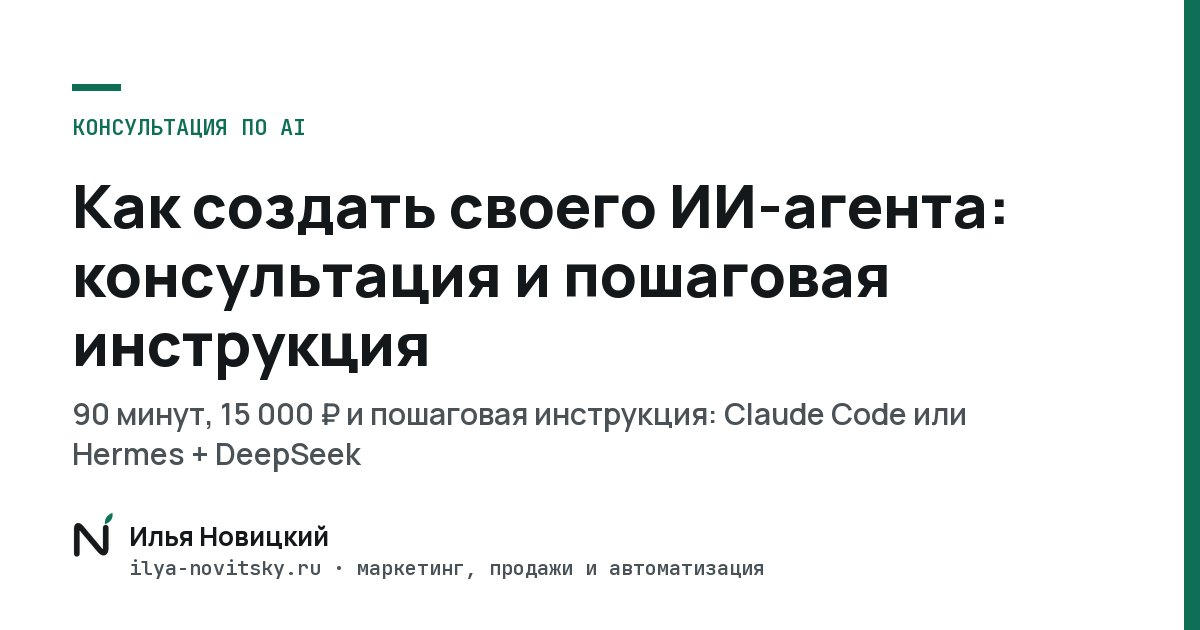
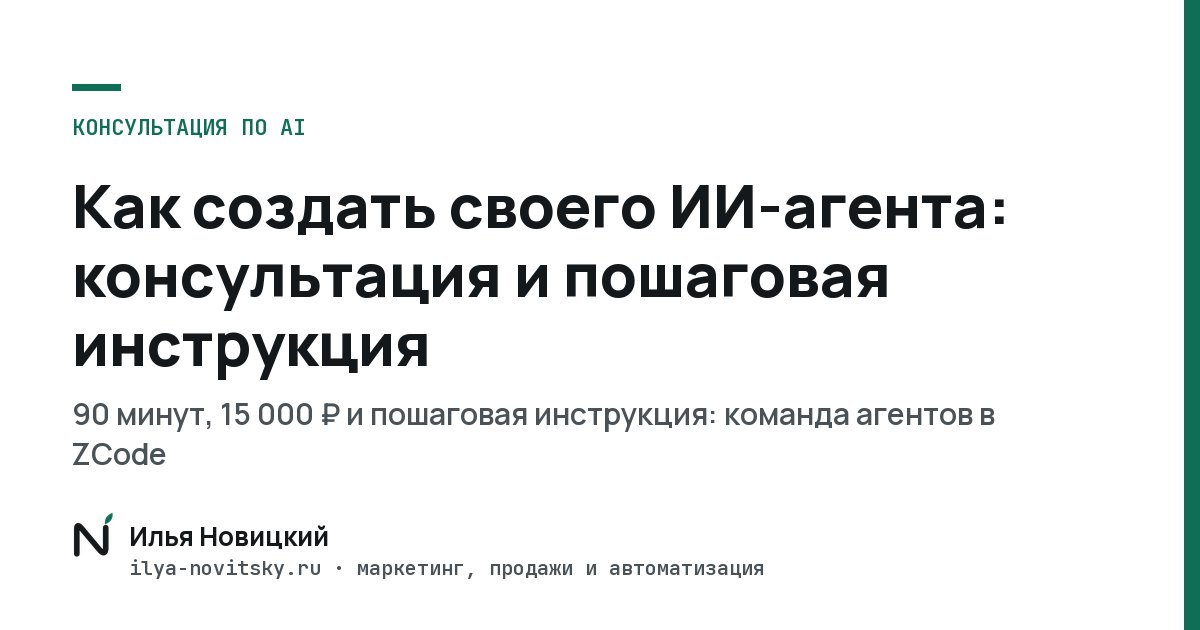
Своя AI-среда: связка → ZCode + модели внутри, скиллы и Telegram (страница, услуга, блог, оферта, og)

Changed region(s): [[0.5858, 0.6333, 0.8325, 0.6937], [0.0617, 0.6937, 0.3083, 0.754]]

diff --git a/content/pages/sreda.ts b/content/pages/sreda.ts
@@ -1,5 +1,6 @@
-// Тексты страницы /svoya-ai-sreda v2 (решение Ильи 23.10): подача как у ИИ-офисов, но продукт — консультация 90 минут и PDF,
-// без обучения и сопровождения. Связки: Claude Code или Hermes + DeepSeek. Все 25 ролей и их промпты не отдаём.
+// Тексты страницы /svoya-ai-sreda v3 (решение Ильи 06.11): подача как у ИИ-офисов, но продукт — консультация 90 минут и PDF,
+// без обучения и сопровождения. Среда одна: ZCode, модели и провайдеры внутри него, на сайте обобщённо, конкретика в PDF.
+// Фишки: навыки-скиллы и управление командой из Telegram. Все 25 ролей и их промпты не отдаём.
 // Скелет: «02 Сайт/Сайт — база знаний/Своя ИИ-среда — скелет продукта, страницы и PDF — 23.10.md».
 // Границы: не помогаем обходить ограничения сервисов (оферта 3.3), только Mac. Разметка: **жирный**, [текст](адрес), {{без переноса}}.
 import { typo } from "@/lib/typo";
@@ -8,7 +9,7 @@ import { prices as P } from "@/config/prices";
 export const sreda = typo({
 	meta: {
 		title: "Как создать своего ИИ-агента: консультация и пошаговая инструкция",
-		description: `Как создать команду ИИ-агентов для своих задач: готовые промпты и пошаговая инструкция, Claude Code или Hermes + DeepSeek. ${P.consult.term}, ${P.consult.price}.`,
+		description: `Как создать команду ИИ-агентов для своих задач: готовые промпты и пошаговая инструкция, среда ZCode с моделями на выбор. ${P.consult.term}, ${P.consult.price}.`,
 	},
 	hero: {
 		crumb: "Своя ИИ-среда",
@@ -37,7 +38,7 @@ export const sreda = typo({
 		},
 		pdf: {
 			label: "PDF после встречи",
-			alt: ["Обложка инструкции: как создать команду ИИ-агентов", "Страница установки Hermes + DeepSeek", "Полный промпт субагента"],
+			alt: ["Обложка инструкции: как создать команду ИИ-агентов", "Страница установки ZCode и подключения модели", "Полный промпт субагента"],
 		},
 
 	},
@@ -69,14 +70,14 @@ export const sreda = typo({
 	},
 	stacks: {
 		num: "02",
-		label: "Связка",
-		h2: "Устройство одно, инструмент выбираете вы",
-		lead: "В обеих вы пишете одному главному агенту, а он сам раздаёт работу субагентам. Разница в том, как их поставить.",
+		label: "Среда",
+		h2: "Среда одна, модель можно менять",
+		lead: "Вся команда живёт в одной программе: ZCode. Модели подключаются внутри неё, поэтому вы не привязаны к одному сервису.",
 		items: [
-			{ b: "Claude Code", how: "Вы видите, какой агент что делает.", plus: "Сильнее всего в текстах, файлах и сайтах.", setup: "Ставится быстрее.", fit: "Подойдёт, если сервис вам доступен и вы готовы к подписке." },
-			{ b: "Hermes + DeepSeek", how: "Вы общаетесь с одним агентом, команду он запускает сам.", plus: "Не зависит от блокировок, модель можно поменять в любой момент.", setup: "Ставится дольше, но все шаги есть в PDF.", fit: "Подойдёт, если вы в России и не хотите зависеть от блокировок. Самый спокойный вариант.", calm: true },
+			{ b: "ZCode", how: "Вы пишете одному главному агенту, он раздаёт работу субагентам, а вы видите, кто что делает.", plus: "Файлы, память и навыки агентов лежат у вас на компьютере.", setup: "Ставится по шагам из PDF, без лишней техники.", fit: "Одна среда вместо связки из нескольких сервисов." },
+			{ b: "Модели внутри ZCode", how: "Провайдера и модель подключаем под ваши задачи и бюджет.", plus: "Недоступна одна модель, переключаетесь на другую: среда, файлы и память остаются.", setup: "Сетка моделей с ценами и отличиями есть в PDF.", fit: "Самый спокойный вариант: вы не зависите от одного сервиса.", calm: true },
 		],
-		note: "В обоих случаях файлы и память лежат у вас на компьютере. Какая связка подойдёт вам, решим на консультации.",
+		note: "Конкретные модели и цены не прячем за словами: разберём на консультации и подберём под ваши задачи.",
 	},
 	gets: {
 		num: "03",
@@ -86,7 +87,7 @@ export const sreda = typo({
 		callLabel: "Консультация · 90 минут",
 		call: [
 			{ m: "15 мин", t: "ваша работа: что хотите отдать агентам" },
-			{ m: "15 мин", t: "связка: Claude Code или Hermes + DeepSeek" },
+			{ m: "15 мин", t: "среда ZCode: как устроена, какие модели подключить под вас" },
 			{ m: "30 мин", t: "готовая команда: как устроены главный агент и четыре субагента" },
 			{ m: "20 мин", t: "первая цепочка задач на вашем примере" },
 			{ m: "10 мин", t: "как собирать своих агентов дальше, вопросы" },
@@ -94,18 +95,21 @@ export const sreda = typo({
 		pdfLabel: "PDF · в тот же день",
 		pdf: [
 			"готовая команда: главный агент и четыре субагента, кто за что отвечает",
-			"подготовка: что поставить, по шагам и без лишней техники",
+			"подготовка: установка ZCode по шагам, без лишней техники",
+			"сетка моделей и провайдеров: цены, отличия, что выбрать под ваши задачи",
 			"безопасность в первый день: данные, ключи и доступы под защитой",
 			"память: файл о вас, чтобы агенты писали вашим голосом",
 			"главный агент: готовый промпт, копируете и запускаете",
 			"субагенты: готовые промпты всех четырёх",
+			"навыки-скиллы: агенты работают по готовым методикам, плюс как собрать свой",
+			"Telegram: как командовать отделами агентов из мессенджера",
 			"первая цепочка: от плана до готового результата",
-			"план Б: что делать, если сервис недоступен",
+			"если модель недоступна: переключение на другую без потери работы",
 			"свои агенты: как по тому же алгоритму собрать агента под любую задачу",
 		],
 		pdfNote: "Плюс примеры того, что команда возьмёт первым.",
 		needLabel: "Что нужно от вас",
-		need: ["компьютер на Mac", "подписка или ключ к выбранной связке", "ваши материалы: тексты, посты, сайт", "полтора часа без отвлечений"],
+		need: ["компьютер на Mac", "подписка или ключ к модели, если уже есть. Если нет, подберём на встрече", "ваши материалы: тексты, посты, сайт", "полтора часа без отвлечений"],
 	},
 	tasks: {
 		num: "04",
@@ -125,8 +129,8 @@ export const sreda = typo({
 		h2: "Соберите сами или доверьте настройку мне",
 		lead: "Консультация даёт всё, чтобы собрать команду самому. Если не хочется разбираться, настрою за вас.",
 		items: [
-			{ b: "Консультация", price: P.consult.price, term: `${P.consult.term} и PDF`, t: "Показываю готовую команду и выбираем связку под вас. В тот же день PDF с шагами, промптами и алгоритмом для своих агентов.", button: "Записаться на консультацию", main: true },
-			{ b: "Настройка под ключ", price: `от ${P.setup.price}`, term: "по смете", t: "Соберу и настрою команду на выбранной связке, проверю её в деле. В Москве с выездом, по России онлайн. Сопровождение после сдачи обсуждаем отдельно.", button: "Обсудить настройку" },
+			{ b: "Консультация", price: P.consult.price, term: `${P.consult.term} и PDF`, t: "Показываю готовую команду в ZCode и подбираем модель под ваши задачи. В тот же день PDF с шагами, промптами и алгоритмом для своих агентов.", button: "Записаться на консультацию", main: true },
+			{ b: "Настройка под ключ", price: `от ${P.setup.price}`, term: "по смете", t: "Соберу и настрою команду в ZCode, подключу модели и Telegram, проверю её в деле. В Москве с выездом, по России онлайн. Сопровождение после сдачи обсуждаем отдельно.", button: "Обсудить настройку" },
 		],
 		team: "Хотите, чтобы команда агентов работала в вашем бизнесе под моим управлением? [Это работа в команде →](/kak-my-rabotaem)",
 	},
@@ -142,7 +146,8 @@ export const sreda = typo({
 			{ q: "Я не технарь. Справлюсь?", a: "**Да, если готовы идти по шагам.** В инструкции только порядок действий, без лишней техники." },
 			{ q: "А если не получится собрать самому?", a: "**Инструкция ведёт по шагам, но собираете вы сами,** и где-то придётся вникнуть. Если не хочется разбираться, есть настройка под ключ." },
 			{ q: "Вы дадите все роли и промпты?", a: "**Нет.** Вы получаете готовую команду из главного агента и четырёх субагентов и алгоритм, по которому соберёте своих под любые задачи." },
-			{ q: "А если сервис заблокируют?", a: "**Для этого есть связка Hermes + DeepSeek.** Она не зависит от зарубежных сервисов, а файлы и память всё равно лежат у вас." },
+			{ q: "А если модель или сервис станет недоступен?", a: "**Переключитесь на другую модель внутри ZCode.** Среда, файлы и память остаются у вас, поэтому работа не ломается. Как переключаться, расписано в PDF." },
+			{ q: "Можно ли управлять агентами из Telegram?", a: "**Да.** Подключаем Telegram: вы пишете главному агенту в мессенджере, а он раздаёт задачи отделам. Порядок подключения есть в PDF." },
 			{ q: "Мои данные будут в безопасности?", a: "**Да, если идти по инструкции.** Файлы и память лежат у вас, а как защитить данные, ключи и доступы с первого дня, расписано в отдельном разделе PDF." },
 			{ q: "Вы поможете обойти ограничения сервисов?", a: "**Нет.** Работаем с тем, что вам доступно. Условия в [оферте](/offer)." },
 			{ q: "Кому не подойдёт?", a: "**Если работаете на Windows,** только знакомитесь с нейросетями или нужно внедрить ИИ сразу на всю команду." },

diff --git a/content/pages/kak-my-rabotaem.ts b/content/pages/kak-my-rabotaem.ts
@@ -9,7 +9,7 @@ export const services = typo([
 	{
 		id: "sreda", title: "Консультация «Своя ИИ-среда»", line: "Готовая команда ИИ-агентов с промптами и инструкция, по которой вы соберёте её сами.", price: P.consult.price, term: P.consult.term,
 		forWho: "Для тех, кто хочет свою команду ИИ-агентов и работать с ней сам.",
-		inc: ["показываю готовую команду: главный агент и четыре субагента", "выбираем связку: Claude Code или Hermes + DeepSeek", "PDF в тот же день: шаги, промпты и как собирать своих агентов", "защита данных, ключей и доступов с первого дня", "план Б: что делать, если сервис недоступен"],
+		inc: ["показываю готовую команду: главный агент и четыре субагента", "ставим среду ZCode, модель подбираем под ваши задачи", "PDF в тот же день: шаги, промпты и как собирать своих агентов", "навыки-скиллы и управление командой из Telegram", "защита данных, ключей и доступов с первого дня"],
 		link: { href: "/svoya-ai-sreda", t: "Подробнее о консультации" },
 		note: "",
 	},

diff --git a/src/lib/blog-viz.ts b/src/lib/blog-viz.ts
@@ -22,7 +22,7 @@ const agent = () => {
 		["e", "что знает", "Клиенты, прайс, частые вопросы и примеры удачных ответов"],
 		["r", "инструкция", "Нейросеть сначала задаёт вам вопросы и собирает скелет"],
 		["r", "проверка", "Кто принимает результат, пока агент учится на своих ошибках"],
-		["o", "где работает", "Claude Code или Hermes и DeepSeek, файлы и память у вас"],
+		["o", "где работает", "ZCode на вашем компьютере: файлы и память у вас, модель можно менять"],
 	];
 	return `<figure class="bviz bviz-chain"><p class="bviz-l">Шесть шагов к своему ИИ-агенту</p><ol>${steps
 		.map(([k, b, t], i) => `<li class="k-${k}"><span class="bc-n">${i + 1}</span><div><span class="bc-k">${esc(b)}</span><p>${esc(t)}</p></div></li>`)

diff --git a/src/components/sreda/Stacks.tsx b/src/components/sreda/Stacks.tsx
@@ -1,7 +1,7 @@
 import { sreda } from "@content/pages/sreda";
 import SectionHead from "@/components/ui/SectionHead";
 
-// 02 · две связки: Claude Code или Hermes + DeepSeek (вторая снимает страх блокировок).
+// 02 · среда ZCode и модели внутри неё (вторая карточка снимает страх блокировок: смена модели не ломает работу).
 export default function Stacks() {
 	const c = sreda.stacks;
 	return (

diff --git a/content/legal/offer.md b/content/legal/offer.md
@@ -22,7 +22,7 @@
 
 2.5. **Консультация «Своя ИИ-среда»** (далее — Консультация) — разовая онлайн-встреча, на которой Исполнитель разбирает, как Заказчик работает с системами искусственного интеллекта, и даёт рекомендации, как организовать собственную рабочую среду: хранение файлов, роли, модели, безопасность и порядок первых шагов.
 
-2.6. **Настройка ИИ-среды под ключ** (далее — Настройка) — настройка Исполнителем рабочей среды с системами искусственного интеллекта на компьютере Заказчика под его задачи на выбранной связке (например, Claude Code или Hermes с DeepSeek): руководитель и дочерние агенты, проверка на задачах Заказчика.
+2.6. **Настройка ИИ-среды под ключ** (далее — Настройка) — настройка Исполнителем рабочей среды с системами искусственного интеллекта на компьютере Заказчика под его задачи в среде ZCode с подключением выбранных моделей искусственного интеллекта: руководитель и дочерние агенты, проверка на задачах Заказчика.
 
 2.7. **Разработка** — создание по заказу сайта, лендинга, веб-сервиса, чат-бота (в Telegram, MAX) или мини-приложения по смете или техническому заданию, согласованным до оплаты.
 
@@ -40,7 +40,7 @@
 - **Чертёж системы** — 2–3 недели. Результат — документ (и прототип, если речь о продукте). Объём согласуется до выставления счёта.
 - **Ведение** — по целям на месяц, которые Стороны согласуют в начале каждого месяца (на основе чертежа, если он был): сайт, контент, путь клиента до оплаты, продукт или сервис, автоматизация, аналитика. Объём роли и формат связи указываются в счёте или в Канале связи до оплаты; по умолчанию — один плановый созвон в неделю и переписка в рабочие дни. Каждую неделю Заказчик получает план и отчёт. Работы сверх объёма роли выполняются после согласования расширения роли и её стоимости.
 - **Разработка** — до оплаты Стороны согласуют в Канале связи смету или техническое задание: что создаётся, из каких этапов, сроки и цена каждого этапа. Изменения после согласования — по новой смете. Результат этапа — работающий продукт или его часть, исходный код и доступы; Исполнитель показывает результат Заказчику и передаёт его письменно. Ошибки, найденные Заказчиком в течение 3 рабочих дней после приёмки и не связанные с изменением задачи, Исполнитель исправляет без доплаты.
-- **Консультация «Своя ИИ-среда»** — одна онлайн-встреча продолжительностью до 90 минут в Telegram или Яндекс Телемосте в согласованное время. После встречи, в тот же день, Исполнитель направляет Заказчику письменную пошаговую инструкцию (файл PDF) по сборке среды на выбранной связке (например, Claude Code или Hermes с DeepSeek): промпты для руководителя и дочерних агентов, примеры задач, ссылки на сервисы. Для применения рекомендаций нужен компьютер Mac. Запись встречи ведётся только с устного согласия Заказчика, которое он даёт в начале записи; запись используется только для расшифровки и подготовки инструкции.
+- **Консультация «Своя ИИ-среда»** — одна онлайн-встреча продолжительностью до 90 минут в Telegram или Яндекс Телемосте в согласованное время. После встречи, в тот же день, Исполнитель направляет Заказчику письменную пошаговую инструкцию (файл PDF) по сборке среды ZCode и подключению моделей искусственного интеллекта: промпты для руководителя и дочерних агентов, примеры задач, ссылки на сервисы. Для применения рекомендаций нужен компьютер Mac. Запись встречи ведётся только с устного согласия Заказчика, которое он даёт в начале записи; запись используется только для расшифровки и подготовки инструкции.
 - **Настройка ИИ-среды под ключ** — состав работ, срок и цена согласуются до оплаты в смете или счёте. В Москве Исполнитель приезжает к Заказчику, в других городах настройка идёт онлайн, через сеанс удалённого доступа, который открывает сам Заказчик. Исполнитель настраивает руководителя и дочерних агентов и проверяет среду на задачах Заказчика; результат сдаётся показом работы среды и краткой письменной инструкцией. Перед началом Заказчик делает резервную копию важных данных на компьютере.
 
 3.3. В услуги не входят:
@@ -49,7 +49,7 @@
 - найм, обучение и контроль сотрудников и подрядчиков Заказчика;
 - оплата сторонних сервисов, подписок, хостинга, доменов и т. п. — эти расходы несёт Заказчик, сумму Исполнитель называет заранее;
 - в Консультации — настройка среды и выполнение работ за Заказчика, а также сопровождение и ответы на вопросы после встречи;
-- в Настройке — сопровождение после сдачи, оборудование, а также подписки на сервисы и модели искусственного интеллекта (Claude, DeepSeek и другие): их Заказчик оформляет на свои аккаунты и оплачивает сам;
+- в Настройке — сопровождение после сдачи, оборудование, а также подписки на сервисы и модели искусственного интеллекта: их Заказчик оформляет на свои аккаунты и оплачивает сам;
 - в Разработке — оплата хостинга, доменов, подписок, платных API, магазинов приложений и других сторонних сервисов, наполнение контентом, если оно не указано в смете, и поддержка после 3 рабочих дней с приёмки (по отдельной договорённости);
 - помощь в обходе ограничений сторонних сервисов (для всех услуг).
 

diff --git a/content/blog/kak-sozdat-ii-agenta.md b/content/blog/kak-sozdat-ii-agenta.md
@@ -59,11 +59,7 @@ cover: "Как создать своего ИИ-агента"
 
 ## Шаг 6. Выберите, где агент будет работать
 
-Агенту нужно место, где лежат его роль, знания и память. Я работаю с двумя вариантами.
-
-**Claude Code.** Удобная рабочая среда, где агенты работают с вашими файлами прямо на компьютере. Файлы и память остаются у вас.
-
-**Hermes и DeepSeek.** Связка, которая не зависит от зарубежных сервисов. Это план Б на случай, если основной инструмент станет недоступен.
+Агенту нужно место, где лежат его роль, знания и память. Я работаю в **ZCode**: это среда, где агенты работают с вашими файлами прямо на компьютере, а модели подключаются внутри неё. Если одна модель становится недоступна, вы переключаетесь на другую, а файлы и память остаются у вас.
 
 С первого дня стоит подумать о защите данных: какие файлы агент видит, где лежат ключи и доступы, что точно не должно уйти наружу. Это скучная часть, но её дешевле настроить сразу, чем исправлять потом.
 
